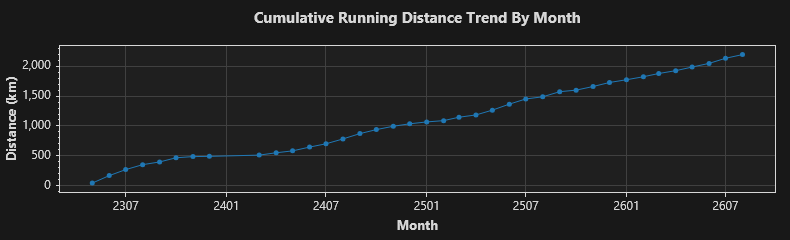
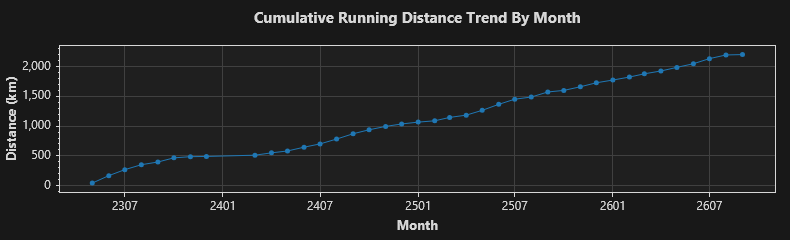
2026/9/2 跑步 6.22 公里

diff --git a/trend.md b/trend.md
@@ -1,4 +1,4 @@
-### Total: 373 days, 2196.2300000000000181898940355 km.
+### Total: 374 days, 2202.4499999999998181010596454 km.
 
 
 ![Monthly](https://github.com/prime167/MyRunningLog/blob/main/data/CumulativeTrendByMonth.png)
